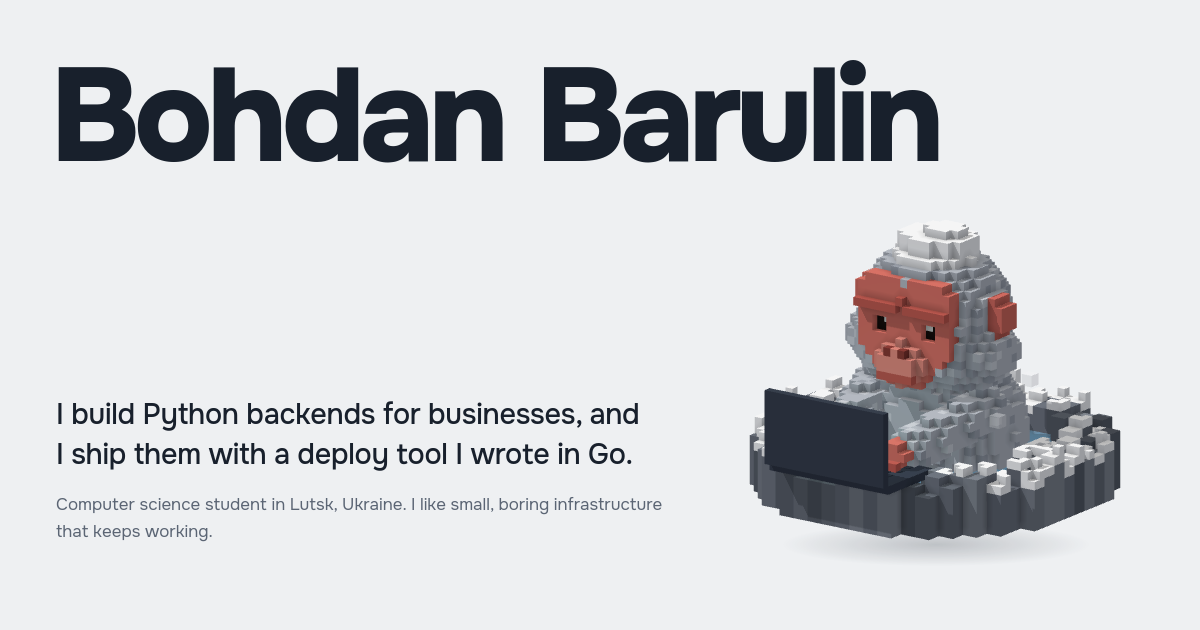
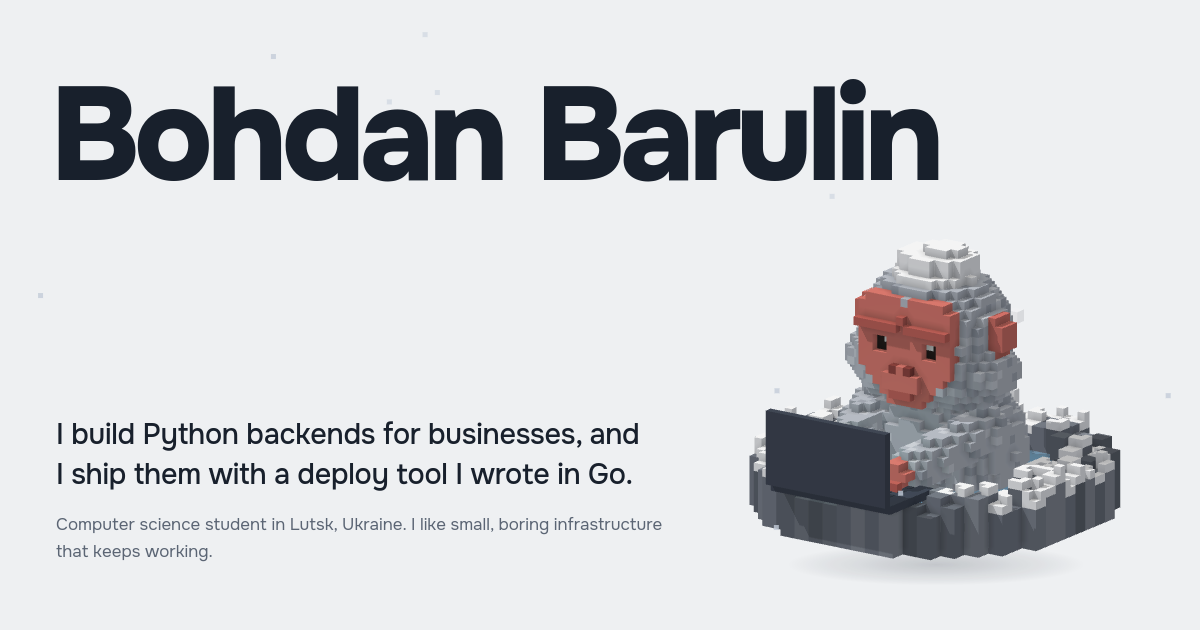
Give the monkey a flat macaque face instead of a pink snout

Changed region(s): [[0.0308, 0.0905, 0.8017, 0.3016], [0.6167, 0.3619, 0.9558, 0.9349], [0.0308, 0.6333, 0.555, 0.9048]]

diff --git a/site/monkey.js b/site/monkey.js
@@ -12,7 +12,6 @@ const darkScheme = matchMedia("(prefers-color-scheme: dark)");
 const C = {
   face: 0xe0766a,
   faceDark: 0xc65e54,
-  muzzle: 0xeb8f82,
   nostril: 0x8f3e38,
   eye: 0x231a17,
   glint: 0xf4f1ec,
@@ -137,11 +136,12 @@ for (const s of [-1, 1]) {
   }
   put(ex, 18, FACE_Z - 1, C.glint);
 }
-// Muzzle, nostrils and mouth
-ellipsoid(0, 13.5, FACE_Z, 3.6, 2.8, 2.6, (x, y, z) => (z > FACE_Z ? C.muzzle : C.face));
-put(-1, 15, FACE_Z + 2, C.nostril);
-put(1, 15, FACE_Z + 2, C.nostril);
-for (let x = -2; x <= 2; x++) put(x, 12, FACE_Z + 2, C.faceDark);
+// A flat macaque face: a low muzzle in the face colour, small nostrils and a thin mouth.
+// A big pink snout read as a pig.
+ellipsoid(0, 13.5, FACE_Z, 3.2, 2.6, 1.4, C.face);
+put(-1, 15, FACE_Z + 1, C.nostril);
+put(1, 15, FACE_Z + 1, C.nostril);
+for (let x = -1; x <= 1; x++) put(x, 12, FACE_Z + 1, C.faceDark);
 // Ears attached to the side of the head, with fur filling in behind them
 for (const s of [-1, 1])
   for (let y = 17; y <= 21; y++)
